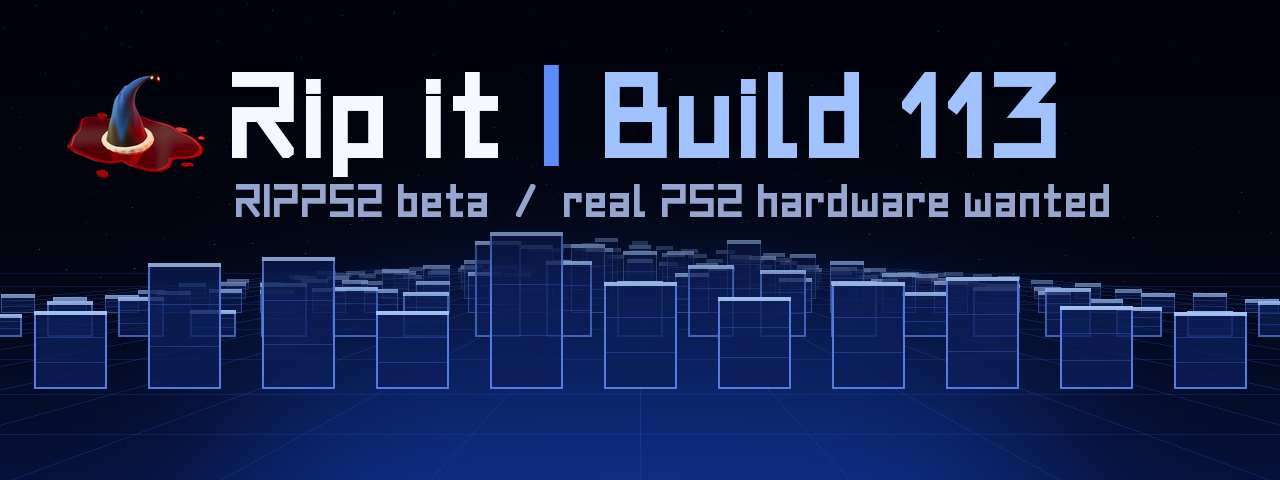
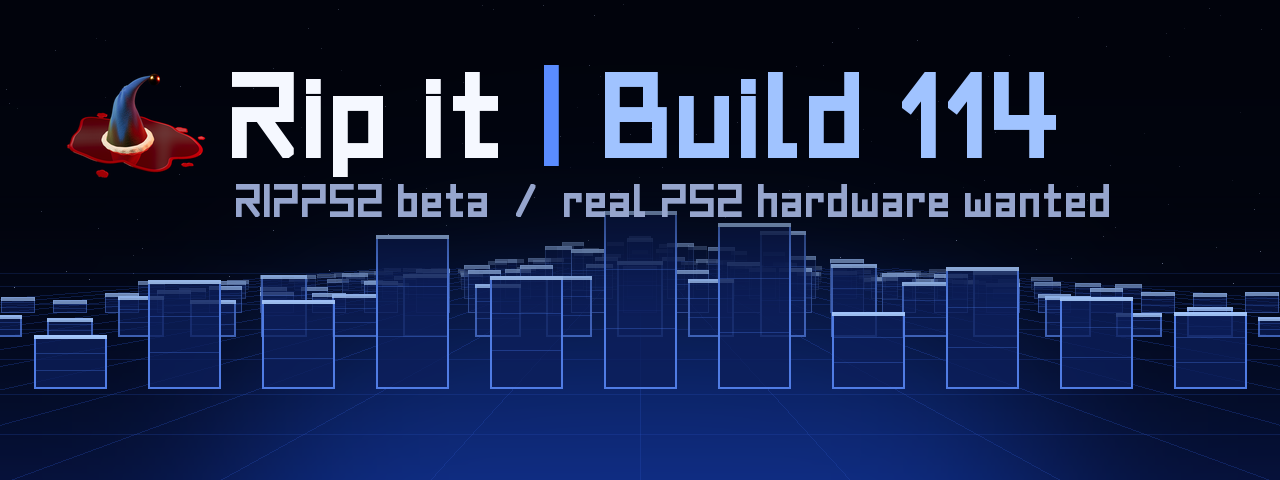
v1.1.4-beta: README, release, Discord and psx-place notes, the build 114 pictures
Release notes (release114.md) with the new pictures cut from the 10/24 takes (delete's plan, the launch
guard, compression's hold and bar, the theme list, Tangerine, Custom, the Color Sweep, Hidden Games), the
first post's tour, the Build 114 banner, and the psx-place first post and bump with REEL_ID / SHORT_ID left
for the YouTube links. Discord notes cut to fit one message.

diff --git a/tools/discord/notes/build114.md b/tools/discord/notes/build114.md
@@ -1,50 +1,37 @@
-# Build 114 is RIPPS2 v1.1.4 beta: All Games from the first frame, hide and delete, your launchers found once, safe launches with the launch guard, every settings page on one screen, one HDD, new Color Themes and the Color Sweep, one newer Roboto, a theme list on SELECT, and games compressed to ZSO.
+# Build 114 is RIPPS2 v1.1.4 beta: All Games from the first frame, hide and delete, your launchers found once, safe launches with the launch guard, every settings page on one screen, one HDD, new Color Themes and the Color Sweep, a theme list on SELECT, and games compressed to ZSO.
 
 ## Get it
-- [Download the latest RIPPS2.elf](https://github.com/akilluminati47/RIPPS2/releases/latest/download/RIPPS2.elf) (this link always gets the newest build), [RIPPS2-languages.zip](https://github.com/akilluminati47/RIPPS2/releases/latest/download/RIPPS2-languages.zip) for your language, and [the theme pack](https://github.com/akilluminati47/RIPPS2-themes/releases/latest/download/RIPPS2-themes.zip) (edition 114: Adapt on the built-in fonts)
+- [Download the latest RIPPS2.elf](https://github.com/akilluminati47/RIPPS2/releases/latest/download/RIPPS2.elf) (always the newest build), [RIPPS2-languages.zip](https://github.com/akilluminati47/RIPPS2/releases/latest/download/RIPPS2-languages.zip) for your language, and [the theme pack](https://github.com/akilluminati47/RIPPS2-themes/releases/latest/download/RIPPS2-themes.zip) (edition 114, on the built-in fonts)
 
 ## Safe launches
-- **No write runs into a launch.** A launch now stops RIPPS2's own background saving first and waits for one already started, so a card image or a stick is never left half written by the reset.
-- **Writes in step with the drive.** The lab found big writes starting at odd places in a file could land a cluster off on exFAT. RIPPS2.LST (the list cache on every drive) is now one write, and compression, RIPDISC's audio rips, screenshots and BIOS Music write in whole aligned pieces.
-- **One write at a time.** RIPPS2's own saving waits its turn, and stops while Memory Files copies, RIPDISC rips or a game is compressed.
-- **RiptOPL's guarded exFAT driver**: a game on a damaged FAT chain refuses to start instead of writing its VMC to the wrong place.
-- **The launch guard.** Pick a game while a drive is still being read and a glass panel says what RIPPS2 is finishing; its notches fill toward when it will be done, and the game starts by itself. **START NOW** stops the work safely and goes; **Back** returns to where you were. Music keeps playing. A short wait shows only the loading icon.
+- **No write runs into a launch.** Picking a game stops RIPPS2's own background saving and waits for one already started, so the reset never cuts a card image or a stick mid write.
+- **Writes in step with the drive**: whole aligned pieces, one at a time, and **RiptOPL's guarded exFAT driver** (a game on a damaged FAT chain is refused instead of writing its VMC to the wrong place).
+- **The launch guard.** Pick a game while a drive is still being read and a glass panel says what RIPPS2 is finishing; its notches fill and the game starts by itself. **Start now** stops the work safely and goes; **Back** returns you. A short wait shows only the loading icon.
 
 ## Games
-- **Mode 8 (Slow Reads)** from RiptOPL, in a game's Compatibility settings: for DVD games that stutter or fail on the OPL core.
-- **All Games at once** at boot, from a saved list, even before the drives answer; a game on a drive still waking waits for it.
-- **Hide Game** (Triangle options): gone from every list until you show it again from Game Sources > Hidden Games.
-- **Delete, completely**: the image, its settings, art and cheats; its saves only if you say Yes. On the internal HDD (APA) the table is checked first and a damaged one is refused before anything changes.
-- **Compress to ZSO** (experimental, Triangle > Hide Game and Compression): hold SELECT, say yes again, watch the progress bar. The ISO stays until every piece of the ZSO is checked, then you are asked before it goes (Back keeps both); the ZSO starts with the OPL core, saves and all, and can be made an ISO again. Hidden games can be compressed too (Game Sources > Hidden Games). It checks the drive has room first, and works on OPL Manager's SCUS_XXX.XX.Name.iso names as well.
-- **Your launchers, found once**: POPSTARTER, the POPS files, Ember, its BIOS and Neutrino are searched for on your drives and remembered (Game Sources > Cache > Look now).
+- **All Games at once** at boot, before the drives answer; a game on a drive still waking waits for it.
+- **Hide Game** (Triangle options): gone from every list until Game Sources > Hidden Games shows it again.
+- **Delete, completely**: the image, its settings, art and cheats; its saves only if you say Yes. On the internal HDD (APA) a damaged table is refused before anything changes.
+- **Compress to ZSO** (experimental): hold SELECT, say yes again, watch the bar. The ISO stays until every piece of the ZSO is checked, then you are asked (Back keeps both). The ZSO starts with the OPL core, saves and all, and can be made an ISO again; hidden games too.
+- **Your launchers, found once**: Game Sources > Cache > Look now. **Mode 8 (Slow Reads)** from RiptOPL for DVD games that fail on fast reads.
 
 ## Settings and looks
-- **Every page on one screen** but Network: BDM Devices and Screen have their own pages, Flow and Grid is Layout, Colors and More is Colors and Text.
-- **One HDD**: HDD Start Mode covers the internal drive, APA or exFAT, and Storage shows it once.
-- **Color Themes**: Tangerine, Flamingo, Turquoise, Moonlight and Custom (pick your own color).
-- **Color Sweep**: five colors the theme fades through, gently. Rainbow, one made from each Color Theme, or your own (Sweep Colors).
-- **The theme list**: hold SELECT on a game list and pick a theme from a panel (Settings > Interface > Hold SELECT: List, Cycle or Off).
-- **Text Weight** for the Settings tooltips, STATUS and About; one newer Roboto Condensed everywhere, the language pack included.
+- **Every page on one screen** but Network (BDM Devices and Screen have their own), **one HDD** (APA or exFAT, shown once), **Color Themes** Tangerine, Flamingo, Turquoise, Moonlight and Custom, the **Color Sweep**, the **theme list** on a held SELECT, and **Text Weight** with one newer Roboto.
 
 ## Test list
 - **A launch right after boot** while a drive is still listing (MMCE, iLink, a big USB): does the guard panel show, fill, and start the game by itself?
-- **START NOW** on the guard panel: does the game start cleanly, and are your drives and cards fine after?
-- **Back** on the guard panel: back on the list where you were, nothing changed?
-- **A launch a few seconds after boot**: only the loading icon, then the game, no panel?
-- **Compress a test game** (one you have a copy of) on USB or the exFAT HDD: does it finish, does the ZSO start with the OPL core and keep its VMC save, and does Uncompress give the ISO back? How long did it take, and what did the panel say it would take?
-- **A nearly full drive**: try to compress a game bigger than the free space. Does it say how much it needs and leave the drive alone?
+- **Start now** and **Back** on the guard panel: a clean start, or back where you were, drives and cards fine?
+- **A launch a few seconds after boot**: only the loading icon, then the game?
+- **Compress a test game** on USB or the exFAT HDD: does it finish, does the ZSO start with its VMC save, does Uncompress give the ISO back? How long, against the panel's guess?
+- **A nearly full drive**: compressing a game bigger than the free space says what it needs and changes nothing?
 - **A new VMC on USB** (a game's VMC settings, Create): made, and the game saves to it?
-- **Hold SELECT** on a game list: the theme list, your pick loaded? Cycle and Off in Settings > Interface?
-- **All Games after a power cycle**: every game listed at once, the covers coming in as the drives answer?
-- **Hide Game**, then Game Sources > Hidden Games > Show Again: back in every list?
+- **Hold SELECT** on a game list: the theme list, your pick loaded?
+- **All Games after a power cycle**: every game at once, covers coming in as drives answer?
+- **Hide Game**, then Hidden Games > Show It Again: back in every list?
 - **Delete** a test game: everything of it gone, its VMC kept when you answer No?
-- **Look now** (Game Sources > Cache): does it find your POPSTARTER, Ember and Neutrino where you keep them?
-- **One HDD**: on an exFAT internal drive, one HDD Games in Storage (no empty APA page), and still there with BDM Devices Start Mode Off? On APA, still there?
-- **Game Sources and Interface**: everything on one screen, OK visible without scrolling?
-- **Colors and Text**: Tangerine, Flamingo, Turquoise, Moonlight; then Custom and your own Theme Color?
-- **Color Sweep Rainbow**: smooth, never flashing, on your TV (480i, 720p, 1080i)?
-- **Sweep Colors**: change a color, save under a new name, still there after a power cycle?
-- **Text Weight Bold**: tooltips heavier and still sharp?
+- **Look now**: your POPSTARTER, Ember and Neutrino found where you keep them?
+- **One HDD** on exFAT: one HDD Games in Storage, still there with BDM Devices Start Mode Off?
+- **Color Themes and the Color Sweep** on your TV (480i, 720p, 1080i): smooth, never flashing?
 - **Your language**: Settings in one typeface (Russian, Greek, Polish, Vietnamese...)?
 
 ## Report

diff --git a/tools/discord/notes/release114.md b/tools/discord/notes/release114.md
@@ -1,0 +1,55 @@
+<p align="center"><img src="https://raw.githubusercontent.com/akilluminati47/RIPPS2/v1.1.4-beta/media/ripps2-test-me.png" alt="RIPPS2: Rip it, build 114"></p>
+
+## Rip it: RIPPS2 v1.1.4 beta (build 114)
+
+**[Download RIPPS2.elf](https://github.com/akilluminati47/RIPPS2/releases/download/v1.1.4-beta/RIPPS2.elf)** (one file, 2.7 MB) and put it in place of your old one. Your settings stay where they were. **[RIPPS2-languages.zip](https://github.com/akilluminati47/RIPPS2/releases/download/v1.1.4-beta/RIPPS2-languages.zip)** puts RIPPS2 in your language (Latin, Greek, Cyrillic and Vietnamese now in one Roboto). The **[theme pack](https://github.com/akilluminati47/RIPPS2-themes/releases/latest)** is edition 114: Adapt and Adapt Rx on RIPPS2's own fonts, less than half the size.
+
+### All Games, whole from the first frame
+- **Every game at once at boot**, from a list kept beside your settings, before the drives answer: a game whose drive is still waking is listed and waits for it. A drive on Manual is listed too; Cross on one of its games starts the drive and then the game.
+- **Your launchers, found once.** RIPPS2 looks for POPSTARTER, the POPS files, Ember, its BIOS and Neutrino on your drives and remembers where each one is: **Settings > Game Sources > Cache > Look now**. **STATUS** opens on your drives (kind, format, free space) and the launchers it found.
+
+<p align="center">
+<img src="https://raw.githubusercontent.com/akilluminati47/RIPPS2/v1.1.4-beta/media/b114/new-01-all-games-at-once.jpg" width="48%" alt="All Games at boot: every game listed before the drive has answered">
+<img src="https://raw.githubusercontent.com/akilluminati47/RIPPS2/v1.1.4-beta/media/b114/new-03-cache-found.jpg" width="48%" alt="Game Sources > Cache: each launcher with where it was found, and Look now">
+</p>
+
+### Hide, delete, compress
+- **Hide Game** (Triangle options): out of every list until **Game Sources > Hidden Games > Show It Again**. The hidden list travels with the drive.
+- **Delete, completely**: the image, its settings, art and cheats; its saves and RIPSHOT pictures only if you say Yes, and a last screen only START gets past. On the internal HDD (APA) the whole partition table is checked first (Berion's check): a table made for another disk size is refused before anything changes.
+- **Compress to ZSO** (experimental): hold SELECT on the panel, say yes again, and a progress bar runs the whole way. The ISO stays until every piece of the ZSO has been read back and checked; then you are asked before it goes, and **Back (keeps both)** keeps the ISO and the ZSO. The room is checked first. A ZSO starts with the OPL core (Neutrino does not read ZSO), saves and all, and **Uncompress to ISO** gives the ISO back. Hidden games can be compressed from Hidden Games. In the lab a 1.2 GB game on the internal exFAT HDD took about 10 minutes and came out 82% of its size.
+
+<p align="center">
+<img src="https://raw.githubusercontent.com/akilluminati47/RIPPS2/v1.1.4-beta/media/b114/new-04-delete-plan.jpg" width="48%" alt="Delete's plan: the game, its settings, 7 art images and its cheats go; its saves are kept">
+<img src="https://raw.githubusercontent.com/akilluminati47/RIPPS2/v1.1.4-beta/media/b114/new-06-compress-hold.jpg" width="48%" alt="Compress to ZSO: the game, its size and drive, about how long, hold SELECT">
+</p>
+
+### Safe launches and the launch guard
+- **No write runs into a launch.** Picking a game stops RIPPS2's own background saving first and waits for one already started, so a card image or a stick is never cut mid write by the reset.
+- **Writes in step with the drive.** Big writes now go in whole aligned pieces (the lab caught exFAT putting a cluster in the wrong place otherwise), RIPPS2 knows each drive's format, cluster size and free space, and it ships **RiptOPL's guarded exFAT driver** (a game on a damaged FAT chain is refused instead of writing its VMC to the wrong place). A game over 4 GB is split only on a drive that really is FAT32.
+- **The launch guard.** Pick a game while a drive is still being read and a glass panel says what RIPPS2 is finishing; its notches fill toward when it will be done and the game starts by itself. **Start now** stops the work safely and goes; **Back** returns you, unchanged. A short wait shows only the loading icon.
+
+<p align="center">
+<img src="https://raw.githubusercontent.com/akilluminati47/RIPPS2/v1.1.4-beta/media/b114/new-05-launch-guard.jpg" width="48%" alt="The launch guard: Starts next, reading the game list of the internal HDD, about 7 s">
+<img src="https://raw.githubusercontent.com/akilluminati47/RIPPS2/v1.1.4-beta/media/b114/new-08-theme-list.jpg" width="48%" alt="The theme list on a held SELECT, over Adapt">
+</p>
+
+### Colors, fonts and Settings
+- **Color Themes**: **Tangerine**, **Flamingo**, **Turquoise**, **Moonlight** and **Custom** (your own Theme Color).
+- **Color Sweep**: five colors the theme fades through, never fast enough to flash: Rainbow, one made from each Color Theme, or your own (Sweep Colors, kept under your name).
+- **The theme list**: hold SELECT on a game list and pick a theme from a panel (Settings > Interface > Hold SELECT: List, Cycle or Off).
+- **Every Settings page on one screen** but Network: **BDM Devices** and **Screen** have pages of their own, **Layout** and **Colors and Text** are named for what they hold, and a game's options end with one **Achievements** row.
+- **One HDD**: HDD Start Mode covers the internal drive, APA or exFAT, and Storage shows it once.
+- **One newer Roboto Condensed**, variable, with **Text Weight** (Regular, Medium, Bold) for the tooltips, STATUS and About; themes can set a weight for any font slot.
+- **RiptOPL brought up to date** (192 commits): i.LINK after an IOP reset, **Mode 8 (Slow Reads)** for DVD games that fail on fast reads, VMC and ZSO fixes.
+
+<p align="center">
+<img src="https://raw.githubusercontent.com/akilluminati47/RIPPS2/v1.1.4-beta/media/b114/new-09-tangerine.jpg" width="32%" alt="The Tangerine Color Theme on Memory Files">
+<img src="https://raw.githubusercontent.com/akilluminati47/RIPPS2/v1.1.4-beta/media/b114/new-10-custom.jpg" width="32%" alt="Interface in a Custom green">
+<img src="https://raw.githubusercontent.com/akilluminati47/RIPPS2/v1.1.4-beta/media/b114/new-11-color-sweep.jpg" width="32%" alt="Storage in the Color Sweep, passing pink">
+</p>
+
+The new words are in all 33 languages.
+
+**[Full changelog](https://github.com/akilluminati47/RIPPS2/blob/main/CHANGELOG.md)** | **[Watch the v1.1.0 reel](https://youtu.be/Q8ZLd6ArV8s)** | **[Talk about it on psx-place](https://www.psx-place.com/threads/ripps2-a-ps2-front-end-in-one-elf-launch-disc-storage-memory-files.51316/)** | [RIPPCSX2](https://github.com/akilluminati47/RIPPCSX2/releases/latest) for seeing a theme in true 720p and 1080i
+
+Beta: keep your usual loader close by, and tell us what breaks in [the psx-place thread](https://www.psx-place.com/threads/ripps2-a-ps2-front-end-in-one-elf-launch-disc-storage-memory-files.51316/) or [an issue](https://github.com/akilluminati47/RIPPS2/issues). This one wants consoles: launches right after boot (the guard), compression on your own drives (how long did it take, and what did the panel say?), and Delete on a test game. Thanks to ripto, nuno6573, zackcage6, eliminator1403, FifthFox, Mr.sus.60 and lukeatmynose for the reports that got us here. Special thanks to all the YouTube love as well: glad to help however you reach me.

diff --git a/README.md b/README.md
@@ -1,16 +1,16 @@
 <p align="center"><sub><b>RIPPS2</b> &nbsp;&middot;&nbsp; <a href="https://github.com/akilluminati47/RIPPS2/releases/latest/download/RIPPS2.elf">Download</a> &nbsp;&middot;&nbsp; <a href="https://github.com/akilluminati47/RIPPS2-themes">Themes</a> &nbsp;&middot;&nbsp; <a href="https://github.com/akilluminati47/RIPPCSX2">RIPPCSX2</a> &nbsp;&middot;&nbsp; <a href="https://github.com/akilluminati47/RIPPS2-fonts">Fonts</a> &nbsp;&middot;&nbsp; <a href="https://akilluminati47.github.io/RIPPS2/">Website</a> &nbsp;&middot;&nbsp; <a href="https://www.psx-place.com/threads/ripps2-a-ps2-front-end-in-one-elf-launch-disc-storage-memory-files.51316/">psx-place</a> &nbsp;&middot;&nbsp; <a href="https://discord.gg/ggkCDWqhE">Discord</a></sub></p> <!-- ripps2-nav -->
 
-<p align="center"><img src="media/ripps2-test-me.png" alt="RIPPS2: Rip it, build 113, the beta, the dead elf in its blue hat over the towers"></p>
+<p align="center"><img src="media/ripps2-test-me.png" alt="RIPPS2: Rip it, build 114, the beta, the dead elf in its blue hat over the towers"></p>
 
 # RIPPS2
 
-> ### Rip it: RIPPS2 build 113, v1.1.3 beta
+> ### Rip it: RIPPS2 build 114, v1.1.4 beta
 > **RIP PS2, the ELF killer.** ELF-sufficient, never ELF-destructive: your other ELFs stay safe on the [shelf](https://akilluminati47.github.io/RIPPS2/) (nothing is deleted unless you ask), they just get a well-earned rest.
-> 1. **[Download RIPPS2.elf](https://github.com/akilluminati47/RIPPS2/releases/latest/download/RIPPS2.elf)** (always the newest release) (one file, 2.7 MB), and the **[theme pack](https://github.com/akilluminati47/RIPPS2-themes/releases/latest)** if you like (Adapt, Adapt Rx, edition 113 with the sidebar; RIPGRID and RIPFLOW are built in), and **[RIPPS2-languages.zip](https://github.com/akilluminati47/RIPPS2/releases/latest/download/RIPPS2-languages.zip)** for RIPPS2 in your language (33 of them).
+> 1. **[Download RIPPS2.elf](https://github.com/akilluminati47/RIPPS2/releases/latest/download/RIPPS2.elf)** (always the newest release) (one file, 2.7 MB), and the **[theme pack](https://github.com/akilluminati47/RIPPS2-themes/releases/latest)** if you like (Adapt, Adapt Rx, edition 114 on the built-in fonts; RIPGRID and RIPFLOW are built in), and **[RIPPS2-languages.zip](https://github.com/akilluminati47/RIPPS2/releases/latest/download/RIPPS2-languages.zip)** for RIPPS2 in your language (33 of them).
 > 2. Copy it to a USB stick or memory card, and launch it from FreeMcBoot, PS2BBL, wLaunchELF or whatever you already use to start homebrew. In PCSX2: **System > Start File** and pick `RIPPS2.elf`.
 > 3. Tell us how it went: [the psx-place thread](https://www.psx-place.com/threads/ripps2-a-ps2-front-end-in-one-elf-launch-disc-storage-memory-files.51316/), [an issue](https://github.com/akilluminati47/RIPPS2/issues), or **#RIPPS2** on the developers' Discord, [discord.gg/ggkCDWqhE](https://discord.gg/ggkCDWqhE) (invite good for October 2026).
 >
-> [What's new in build 113](https://github.com/akilluminati47/RIPPS2/releases/tag/v1.1.3-beta) | [Changelog](CHANGELOG.md) | **[Watch the v1.1.0 reel](https://youtu.be/Q8ZLd6ArV8s)** (3:57, chapters in its description) and **[the v1.1.2 sounds walkthrough](https://akilluminati47.github.io/RIPPS2/media/b112/ripps2-v112-sounds.mp4)** (2:11, one take: the boot sound, the menu music, then every sound in turn); earlier: [the beta reel](https://youtu.be/LPjdK_E1jjM), [the build 99 Short](https://www.youtube.com/shorts/Ov5iA-tMcI8), [build 88's](https://www.youtube.com/shorts/Sqprz22tdtg), [the build 83 reel](https://youtu.be/A27N9s6tumk) and [its Short](https://youtube.com/shorts/4QBe5UO2KxM)) | [Every release](https://github.com/akilluminati47/RIPPS2/releases) | [Talk about it on psx-place](https://www.psx-place.com/threads/ripps2-a-ps2-front-end-in-one-elf-launch-disc-storage-memory-files.51316/)<br>
+> [What's new in build 114](https://github.com/akilluminati47/RIPPS2/releases/tag/v1.1.4-beta) | [Changelog](CHANGELOG.md) | **[Watch the v1.1.0 reel](https://youtu.be/Q8ZLd6ArV8s)** (3:57, chapters in its description) and **[the v1.1.2 sounds walkthrough](https://akilluminati47.github.io/RIPPS2/media/b112/ripps2-v112-sounds.mp4)** (2:11, one take: the boot sound, the menu music, then every sound in turn); earlier: [the beta reel](https://youtu.be/LPjdK_E1jjM), [the build 99 Short](https://www.youtube.com/shorts/Ov5iA-tMcI8), [build 88's](https://www.youtube.com/shorts/Sqprz22tdtg), [the build 83 reel](https://youtu.be/A27N9s6tumk) and [its Short](https://youtube.com/shorts/4QBe5UO2KxM)) | [Every release](https://github.com/akilluminati47/RIPPS2/releases) | [Talk about it on psx-place](https://www.psx-place.com/threads/ripps2-a-ps2-front-end-in-one-elf-launch-disc-storage-memory-files.51316/)<br>
 > [Theme RIPPS2](https://github.com/akilluminati47/RIPPS2-themes) (no rebuild, agent friendly) | [Fill your AUDIO folder](#the-sound-ripps2-was-made-with) with RIPPS2 Audio Studio | [See a theme in true 720p and 1080i: RIPPCSX2](https://github.com/akilluminati47/RIPPCSX2/releases/latest) (PCSX2 with HDTV output)
 
 RIPPS2 is a PS2 front end in a single `.elf`: a teardown and rebuild of [RiptOPL](https://github.com/NathanNeurotic/Open-PS2-Loader) (the Open PS2 Loader fork), with rickgaiser's [Neutrino](https://github.com/rickgaiser/neutrino) inside as its second game core, and its own look, launchers, file browser and save tools. Glass towers stand behind your games and orbit formations behind your files, all drawn live by the PS2.
